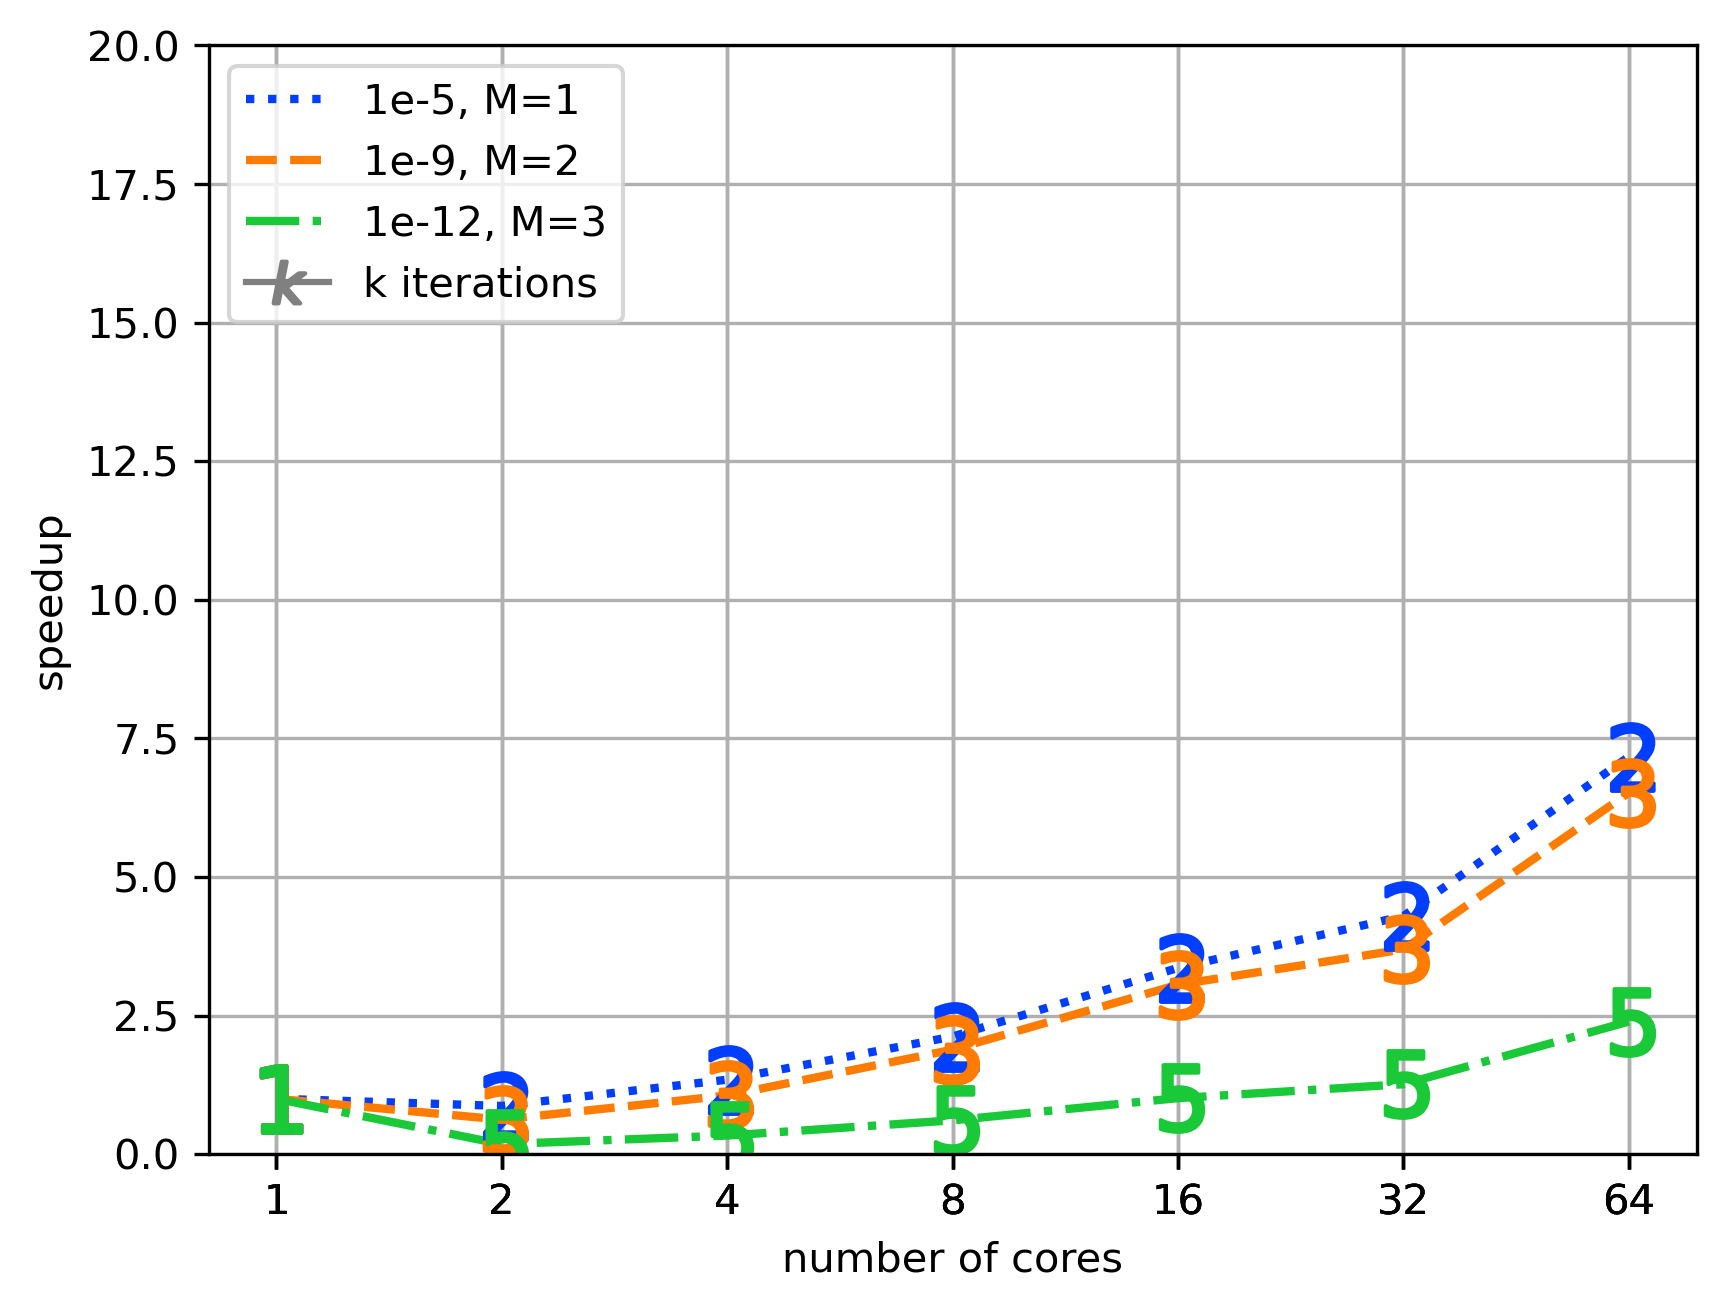
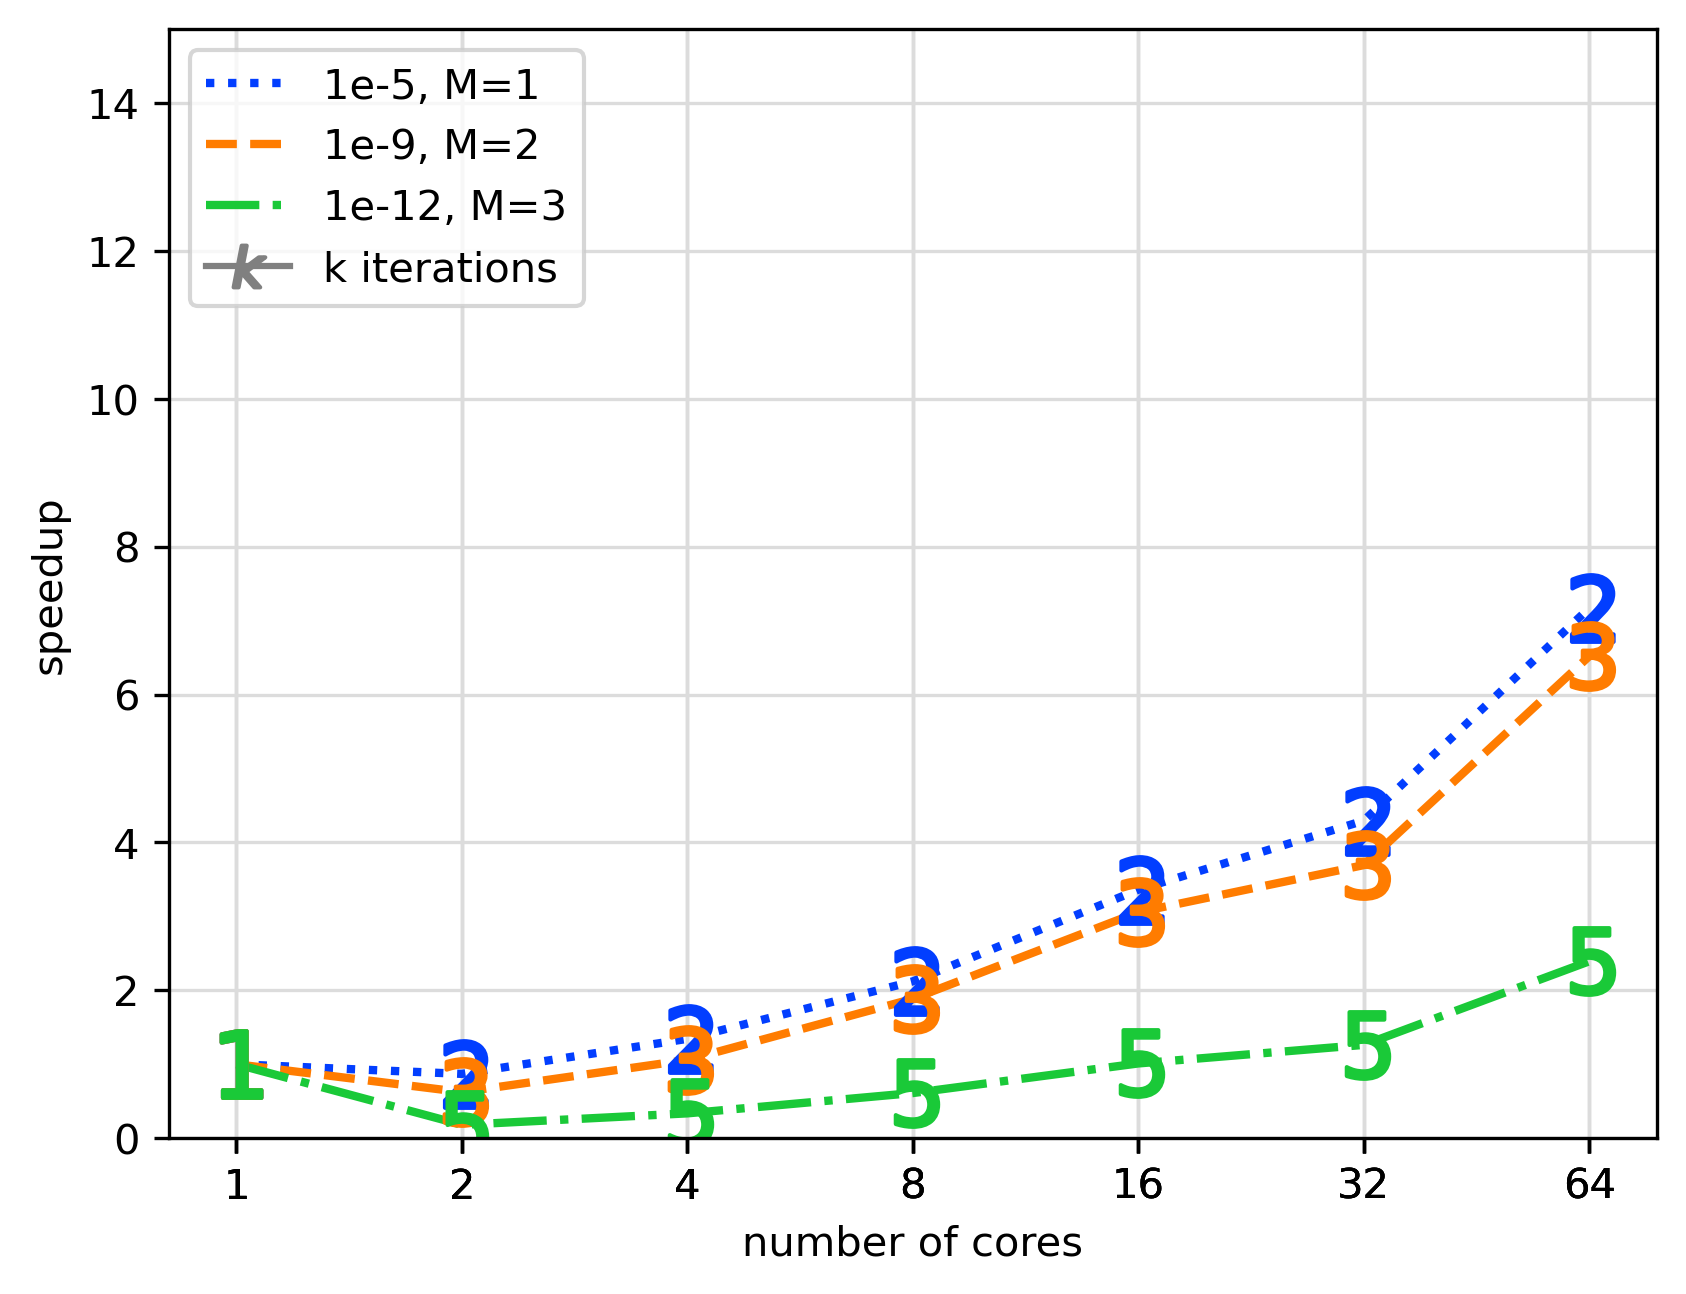
speedup plots

diff --git a/test_runs_and_plots/problem_scaling/step_coll_parallel_stron_scaling.py b/test_runs_and_plots/problem_scaling/step_coll_parallel_stron_scaling.py
@@ -3,26 +3,38 @@ import numpy as np
 import seaborn as sns
 from matplotlib.lines import Line2D
 
-NAME = 'adv'
+NAME = 'heat'
 path_heat = ['heat1_strong/output/000001/result/result.dat', 'heat2_strong/output/000003/result/result.dat', 'heat3_strong/output/000034/result/result.dat']
 path_adv = ['adv1_strong/output/000009/result/result.dat', 'adv2_strong/output/000005/result/result.dat', 'adv3_strong/output/000006/result/result.dat']
 
+path_heat_seq = ['heat1_strong/output/000001/result/result.dat', 'heat2_strong/output/000002/result/result.dat', 'heat3_strong/output/000033/result/result.dat']
+path_adv_seq = ['adv1_strong/output/000009/result/result.dat', 'adv2_strong/output/000004/result/result.dat', 'adv3_strong/output/000005/result/result.dat']
+
+
 if NAME == 'adv':
     path = path_adv.copy()
+    path_seq = path_adv_seq.copy()
 if NAME == 'heat':
     path = path_heat.copy()
+    path_seq = path_heat_seq.copy()
 
 # nproc | tot_time | iters
 eq = []
+eq_seq = []
 for p in path:
     eq.append(np.loadtxt(p, delimiter='|', usecols=[0, 3, 7], skiprows=3))
+for p in path_seq:
+    eq_seq.append(np.loadtxt(p, delimiter='|', usecols=[0, 3, 7], skiprows=3))
 
 seqT = []
 # sort runs
 for i in range(len(eq)):
     indices = np.argsort(eq[i][:, 0])
     eq[i] = eq[i][indices, :]
-    seqT.append(eq[i][0, 1])
+
+    indices = np.argsort(eq_seq[i][:, 0])
+    eq_seq[i] = eq_seq[i][indices, :]
+    seqT.append(eq_seq[i][0, 1])
 
 ticks = []
 labels = []
@@ -33,6 +45,20 @@ linst = ['dotted', 'dashed', 'dashdot']
 custom_lines = []
 col = sns.color_palette("bright", len(eq))
 
+# ild plots in gray
+for i in range(len(eq)):
+    eq_seq[i][:, 1] = seqT[i] / eq_seq[i][:, 1]
+
+    plt.plot(np.log2(eq_seq[i][:, 0]), eq_seq[i][:, 1], linestyle=linst[i], linewidth=lw, color='silver')
+    ticks += list(np.log2(eq_seq[i][:, 0]))
+    labels += list(eq_seq[i][:, 0])
+
+for i in range(len(eq)):
+    for nn in range(n):
+        m = int(eq_seq[i][nn, 2])
+        plt.plot(np.log2(eq_seq[i][nn, 0]), eq_seq[i][nn, 1], marker="$" + str(m) + "$", markersize=marks, color='silver')
+
+#new plots
 for i in range(len(eq)):
     eq[i][:, 1] = seqT[i] / eq[i][:, 1]
 
@@ -51,9 +77,9 @@ plt.xticks(ticks, labels)
 names = ['1e-5, M=1', '1e-9, M=2', '1e-12, M=3', 'k iterations']
 custom_lines.append(Line2D([0], [0], marker="$k$", markersize=10, color='gray'))
 plt.legend(custom_lines, names, loc='upper left')
-plt.grid(True)
+plt.grid(True, color='gainsboro')
 plt.ylabel('speedup')
 plt.xlabel('number of cores')
-plt.ylim([0, 20])
+plt.ylim([0, 15])
 # plt.show()
 plt.savefig('strong_plots/Stepcollparallelstrong' + NAME, dpi=300, bbox_inches='tight')

diff --git a/test_runs_and_plots/problem_scaling/step_parallel_strong_scaling.py b/test_runs_and_plots/problem_scaling/step_parallel_strong_scaling.py
@@ -51,9 +51,9 @@ plt.xticks(ticks, labels)
 names = ['1e-5, M=1', '1e-9, M=2', '1e-12, M=3', 'k iterations']
 custom_lines.append(Line2D([0], [0], marker="$k$", markersize=10, color='gray'))
 plt.legend(custom_lines, names, loc='upper left')
-plt.grid(True)
+plt.grid(True, color='gainsboro')
 plt.ylabel('speedup')
 plt.xlabel('number of cores')
-plt.ylim([0, 20])
+plt.ylim([0, 15])
 # plt.show()
 plt.savefig('strong_plots/Stepparallelstrong' + NAME, dpi=300, bbox_inches='tight')
